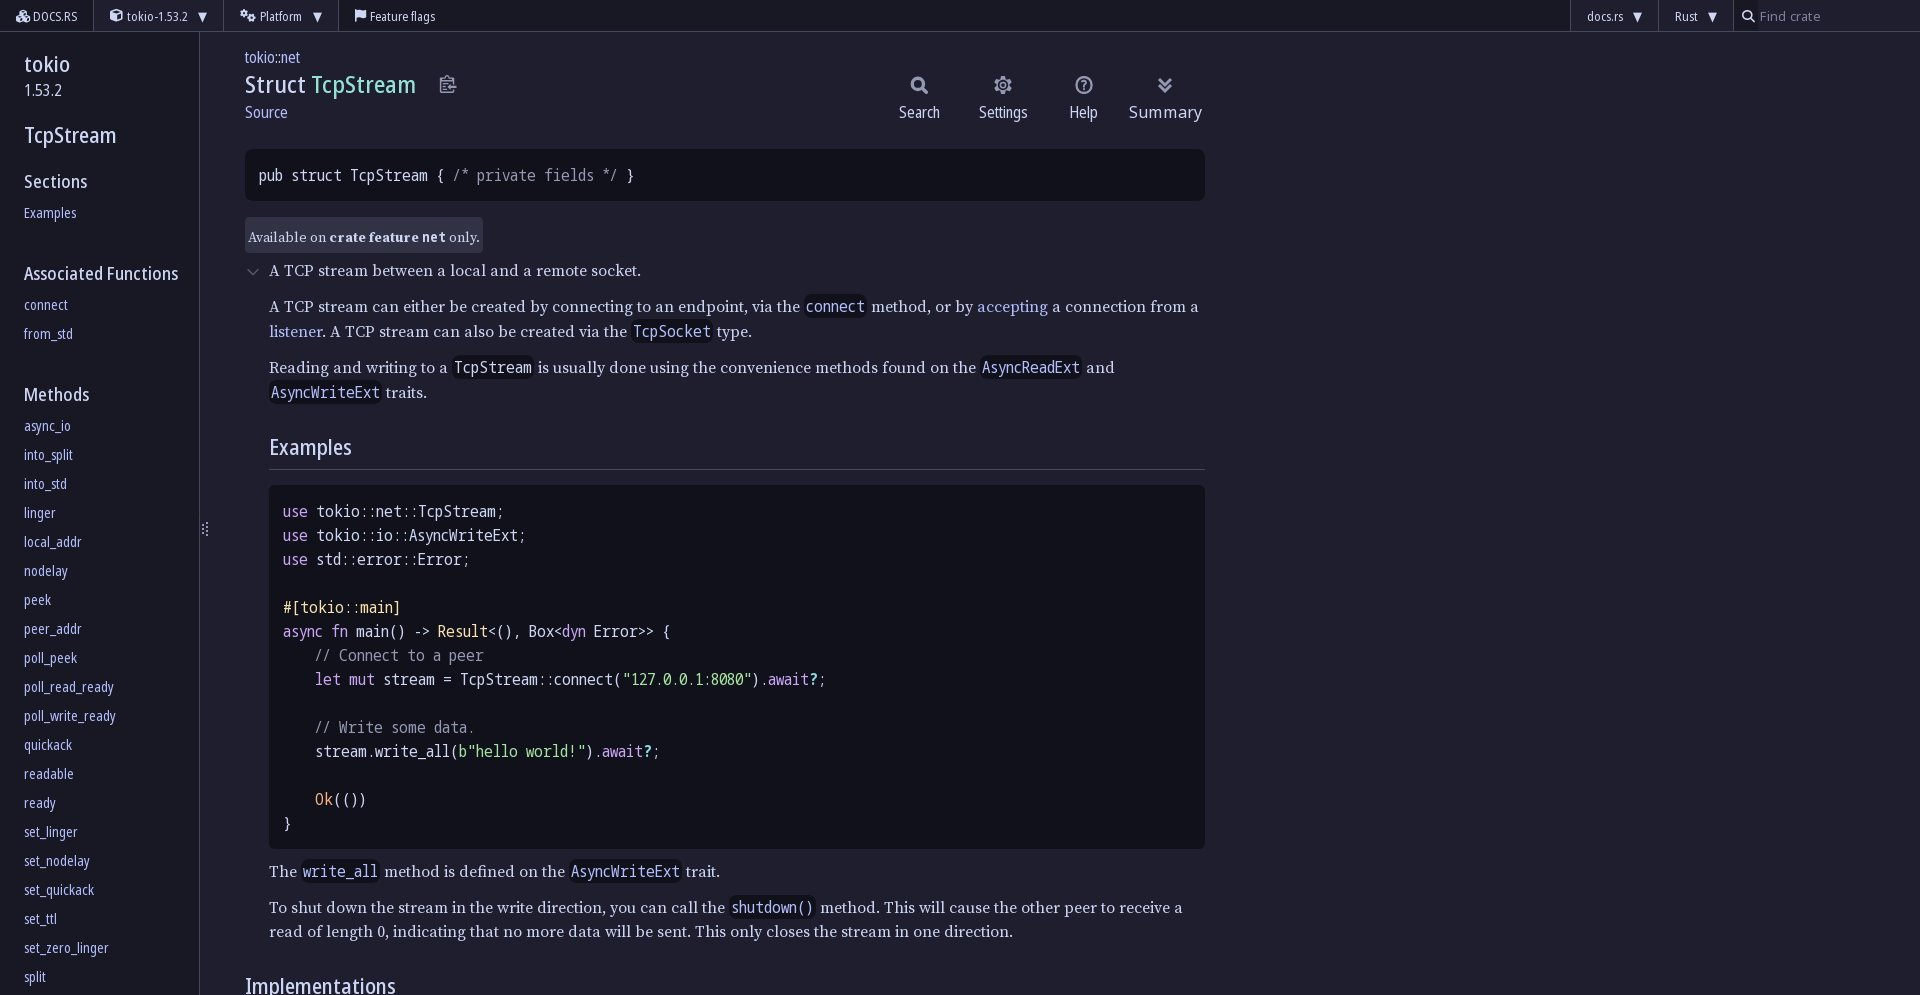
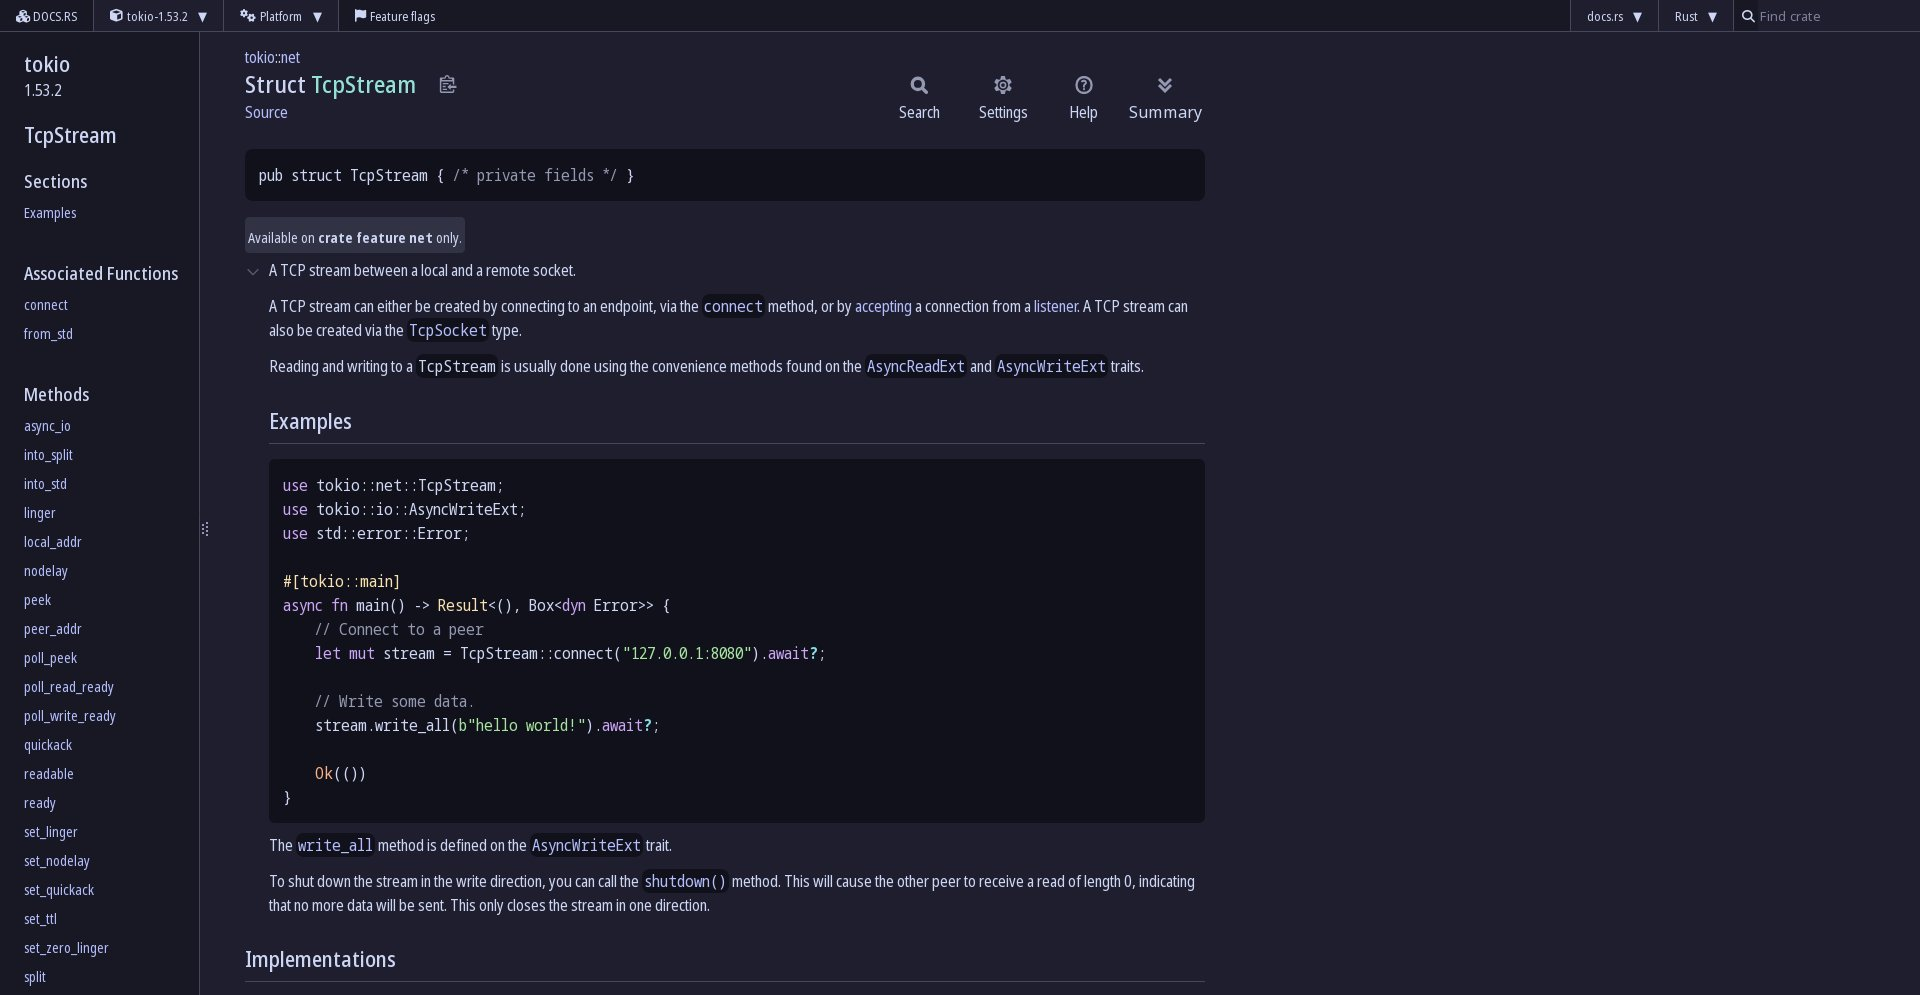
Theme answers: link colours, categorical colours, syntax, typography
roarke THEME.md gains the owner's answers to the questions the MCP-only
agents raised: link colour is a judgement (titles in link lists stay text
colour), categorical colours map to distinct Mocha colours, syntax uses
Catppuccin's standard mapping, muted text is fine for short de-emphasised
text, and when to keep a site's typography (articles yes, skimmed docs
and UI no, meaningful type distinctions kept).

Applied: Lobsters titles in text colour; docs.rs all Noto Sans. Previews
refreshed. SPEC §17: throwaway containers by copying cookies, plus the
user's own containers, and changing the user's setting as a last resort.

Claude-Session: https://claude.ai/code/session_01D67T8JeLKWqA31wwVHuFdE

Changed region(s): [[0.125, 0.2181, 0.625, 0.8101], [0.125, 0.8412, 0.625, 1.0]]

diff --git a/examples/owned/services/docsrs/roarke/rustdoc.user.css b/examples/owned/services/docsrs/roarke/rustdoc.user.css
@@ -157,9 +157,10 @@
     --toolbar-button-border-radius: 4px;
     --button-border-radius: 4px;
 
-    /* Type. Docs prose keeps rustdoc's serif (THEME.md allows it for
-       long-form reading); code is Noto Sans Mono. Rustdoc's own "Use
-       sans-serif fonts" setting is honoured below. */
+    /* Type: all Noto Sans. Docs are technical writing meant to be skimmed,
+       so the theme's typography takes over from rustdoc's serif (owner's
+       call). Code is Noto Sans Mono. */
+    --font-family: "Noto Sans", sans-serif;
     --font-family-code: "Noto Sans Mono", monospace;
   }
 

diff --git a/examples/owned/services/lobsters/roarke/chrome.user.css b/examples/owned/services/lobsters/roarke/chrome.user.css
@@ -44,6 +44,13 @@
   }
   #logo a { filter: brightness(0.12); }
 
+  /* Story titles are links, but on a list of them the accent would be
+     everywhere: text colour, visited dimmed, as on Hacker News. (Owner's
+     call; the theme leaves link colours to judgement.) */
+  .link a.u-url { color: #cdd6f4; }
+  .link a.u-url:visited { color: #9399b2; }
+  .link a.u-url:hover { color: #b4befe; }
+
   /* Links in comments and story text are grey and underlined on Lobsters;
      here they take the accent like every other link. */
   div.comment_text a, div.story_text a,

diff --git a/examples/owned/themes/roarke/THEME.md b/examples/owned/themes/roarke/THEME.md
@@ -63,7 +63,24 @@ precisely by not being lavender: use peach.
 
 Keep colours whose meaning matters (errors, diff additions and deletions,
 status badges) mapped to the matching Mocha colour, but use them sparingly.
-Dark text (`#1e1e2e`) on these pastel colours is fine.
+Dark text (`#1e1e2e`) on these pastel colours is fine. Categorical colours
+that tell things apart (rustdoc's types, traits and functions; a site's tag
+categories) are meaningful in this sense: map them to distinct Mocha colours
+rather than collapsing them into lavender.
+
+Where a site colours something as a link, the restyled version usually does
+too, but not always: use judgement about where the accent belongs. A list
+whose every item title is a link (Lobsters, Hacker News) would be all
+lavender; titles in text colour, with visited ones dimmed, read better.
+
+**Syntax highlighting** uses Catppuccin Mocha's standard syntax mapping (mauve
+keywords, green strings, peach numbers and so on), even though that brings in
+colours the table above doesn't list. Peach in code isn't the "attention"
+peach.
+
+**Muted text** (`#6c7086`) is readable enough for short de-emphasised text,
+like "[comment removed]" or a disabled control, though not for anything meant
+to be read at length.
 
 ## Typography
 
@@ -83,8 +100,14 @@ Dark text (`#1e1e2e`) on these pastel colours is fine.
 - Where text is borderline on contrast or size (small metadata, text on
   coloured backgrounds), a slightly heavier weight (500 or 600) is the preferred fix, before
   changing colours.
-- Long-form reading (articles, docs) may keep a serif if the site uses one,
-  but in the Mocha text colour.
+- **When to keep a site's typography** is a judgement call, without a hard
+  line. One consistent family across the screen looks good, and is the
+  default. But a page that's like a magazine article can take its type from
+  the publisher, serif included (in the Mocha text colour). Application UI and
+  technical writing meant to be skimmed (docs.rs, MDN) should use the theme's
+  fonts. And sometimes a site uses typography to *mean* something, like a chat
+  UI setting one speaker's messages in serif and the other's in sans: keep
+  that distinction rather than flattening it.
 
 ## Things to avoid
 

diff --git a/SPEC.md b/SPEC.md
@@ -541,7 +541,7 @@ atelier daemon | native-host | mcp  internal entry points
 
 ## 17. Open questions
 
-- **Trying site settings without touching the user's.** Agent tabs share the user's profile, so an agent can't check a prerequisite's failure case or a site's other theme without changing the user's own setting. A throwaway context for that (a Firefox container seeded with the relevant cookies, or a private window) would close the gap; the trade-offs (which cookies, logged-in state) need thought.
+- **Trying site settings without touching the user's.** Agent tabs share the user's profile, so an agent can't check a prerequisite's failure case or a site's other theme without changing the user's own setting. Agents need both: the user's own containers (styles for logged-in pages), and a throwaway context for experiments. Firefox can't fork a container, but the extension can do the essential part: create a temporary container (`contextualIdentities`) and copy the site's cookies into it from the user's (`cookies.getAll`/`set` with `storeId`), giving a throwaway that's logged in like the user. Site storage (localStorage, IndexedDB) doesn't copy, so some settings won't carry over. Where there's no other way, an agent may change a setting in the user's own context (e.g. a site's light/dark choice), saying so, and setting it back.
 
 - **Shadow DOM.** Custom properties inherit into shadow roots, so token overrides reach most web components. But colours and shapes hard-coded inside a component (MDN's syntax highlighting and code editor) can't be reached by page CSS. Proposal: a style section that targets a named custom element's shadow root (e.g. `@shadow mdn-code-example { … }`), which the shim adds as an adopted stylesheet inside each open shadow root, found with a MutationObserver and `customElements.whenDefined`. Closed shadow roots stay out of reach.
 - **Frames.** Styles only go into top-level documents. Registering with `allFrames`, with sections matched against each frame's own URL as Stylus does, lets a style opt in to a frame's origin. Frames that show example output (MDN's live samples) generally shouldn't be restyled, so this must stay opt-in per matcher.
